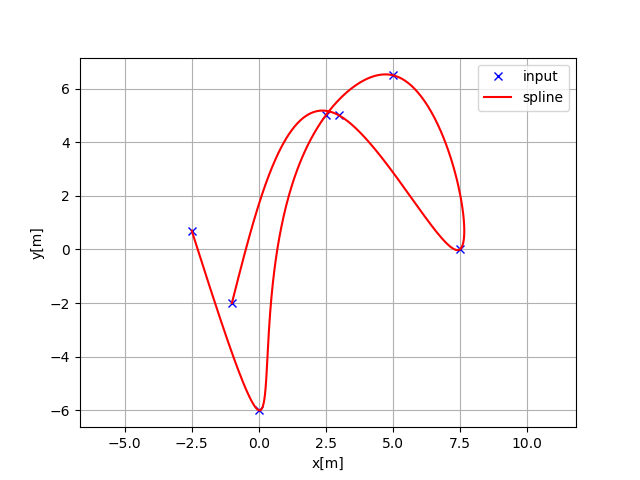
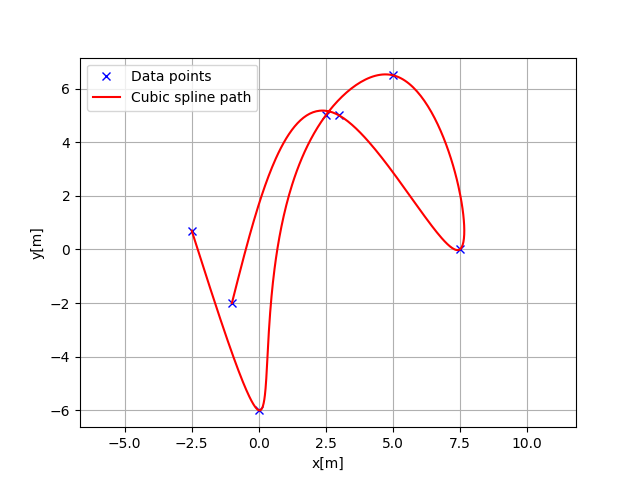
enhance cubic spline path doc

Changed region(s): [[0.125, 0.125, 0.4062, 0.2188], [0.8125, 0.125, 0.875, 0.2188], [0.75, 0.1562, 0.7812, 0.2188]]

diff --git a/PathPlanning/CubicSpline/cubic_spline_planner.py b/PathPlanning/CubicSpline/cubic_spline_planner.py
@@ -234,8 +234,8 @@ def main():  # pragma: no cover
         rk.append(sp.calc_curvature(i_s))
 
     plt.subplots(1)
-    plt.plot(x, y, "xb", label="input")
-    plt.plot(rx, ry, "-r", label="spline")
+    plt.plot(x, y, "xb", label="Data points")
+    plt.plot(rx, ry, "-r", label="Cubic spline path")
     plt.grid(True)
     plt.axis("equal")
     plt.xlabel("x[m]")

diff --git a/docs/modules/path_planning/cubic_spline/cubic_spline_main.rst b/docs/modules/path_planning/cubic_spline/cubic_spline_main.rst
@@ -176,7 +176,7 @@ These equations can be calculated by differentiating the cubic polynomial.
 API
 ===
 
-These are 1D cubic spline interpolation APIs:
+This is the 1D cubic spline class API:
 
 .. autoclass:: PathPlanning.CubicSpline.cubic_spline_planner.CubicSpline1D
 	:members:
@@ -196,9 +196,16 @@ This code generates a curvature continuous path based on x-y waypoints with cubi
 
 .. image:: Figure_1.png
 
-Heading angle of each point can be also calculated analytically.
+Heading angle of each point can be calculated analytically by:
+
+:math:`\theta=\tan ^{-1} \frac{y’}{x’}`
 
 .. image:: Figure_2.png
+
+Curvature of each point can be also calculated analytically by:
+
+:math:`\kappa=\frac{y^{\prime \prime} x^{\prime}-x^{\prime \prime} y^{\prime}}{\left(x^{\prime2}+y^{\prime2}\right)^{\frac{2}{3}}}`
+
 .. image:: Figure_3.png
 
 API
